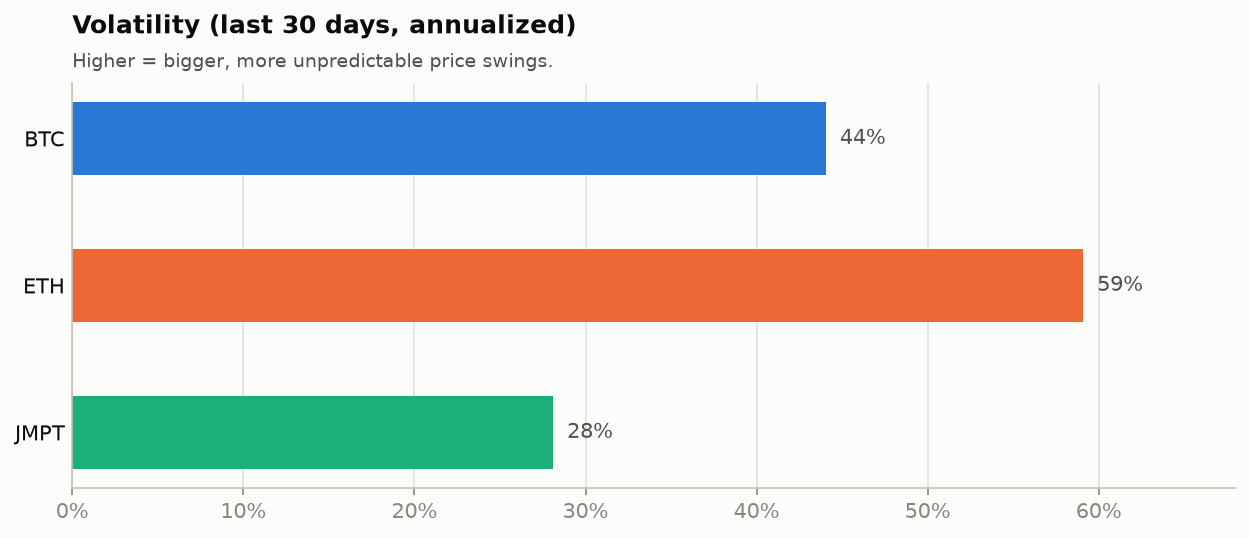
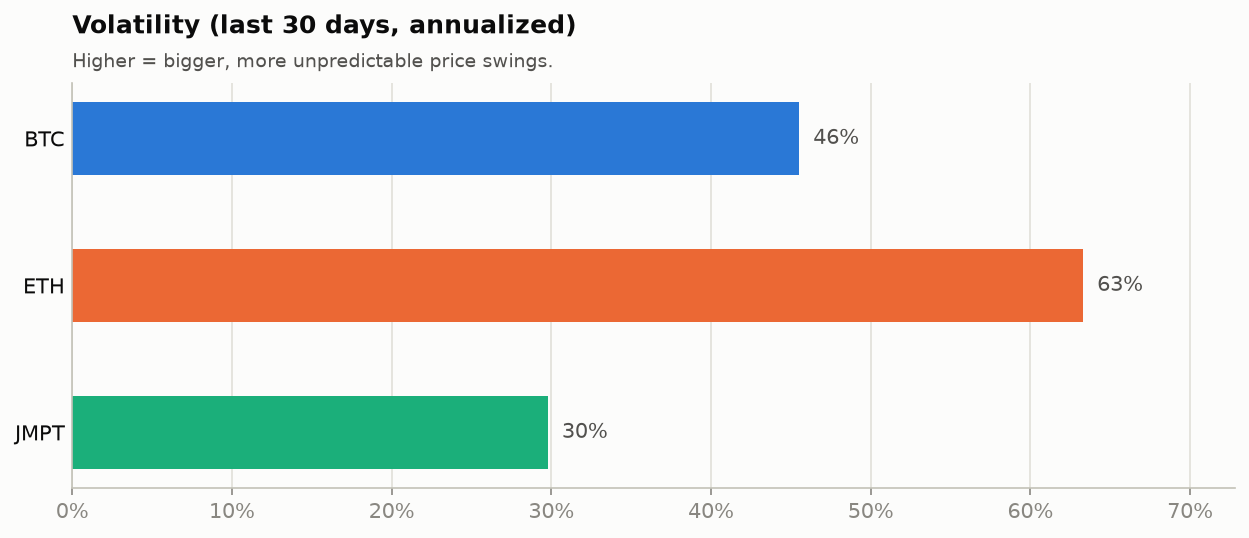
data: market update 2026-11-21

diff --git a/README.md b/README.md
@@ -9,13 +9,13 @@ The project compares two of the largest cryptocurrencies with a small-cap token:
 ## Latest stats
 
 <!-- STATS:START -->
-_Snapshot as of **2026-11-20 00:00 UTC**. Updated automatically every day._
+_Snapshot as of **2026-11-21 00:00 UTC**. Updated automatically every day._
 
 | Coin | Price | 1 day | 7 days | 30 days | 1 year | Volatility (30d) | Market cap |
 |:--|--:|--:|--:|--:|--:|--:|--:|
-| **BTC** Bitcoin | $61,921 | ▼ -1.7% | ▼ -13.2% | ▼ -25.3% | ▼ -32.3% | 44% | $1.25T |
-| **ETH** Ethereum | $1,756 | ▼ -1.1% | ▼ -13.0% | ▼ -28.2% | ▼ -41.9% | 59% | $214.59B |
-| **JMPT** JumpToken | $0.4565 | ▼ -0.6% | ▼ -7.0% | ▼ -15.7% | ▼ -42.5% | 28% | $6.74M |
+| **BTC** Bitcoin | $58,818 | ▼ -5.0% | ▼ -13.9% | ▼ -30.0% | ▼ -32.1% | 46% | $1.18T |
+| **ETH** Ethereum | $1,620 | ▼ -7.8% | ▼ -16.2% | ▼ -34.5% | ▼ -42.8% | 63% | $197.96B |
+| **JMPT** JumpToken | $0.4409 | ▼ -3.4% | ▼ -8.1% | ▼ -18.6% | ▼ -43.5% | 30% | $6.51M |
 <!-- STATS:END -->
 
 ## Charts
